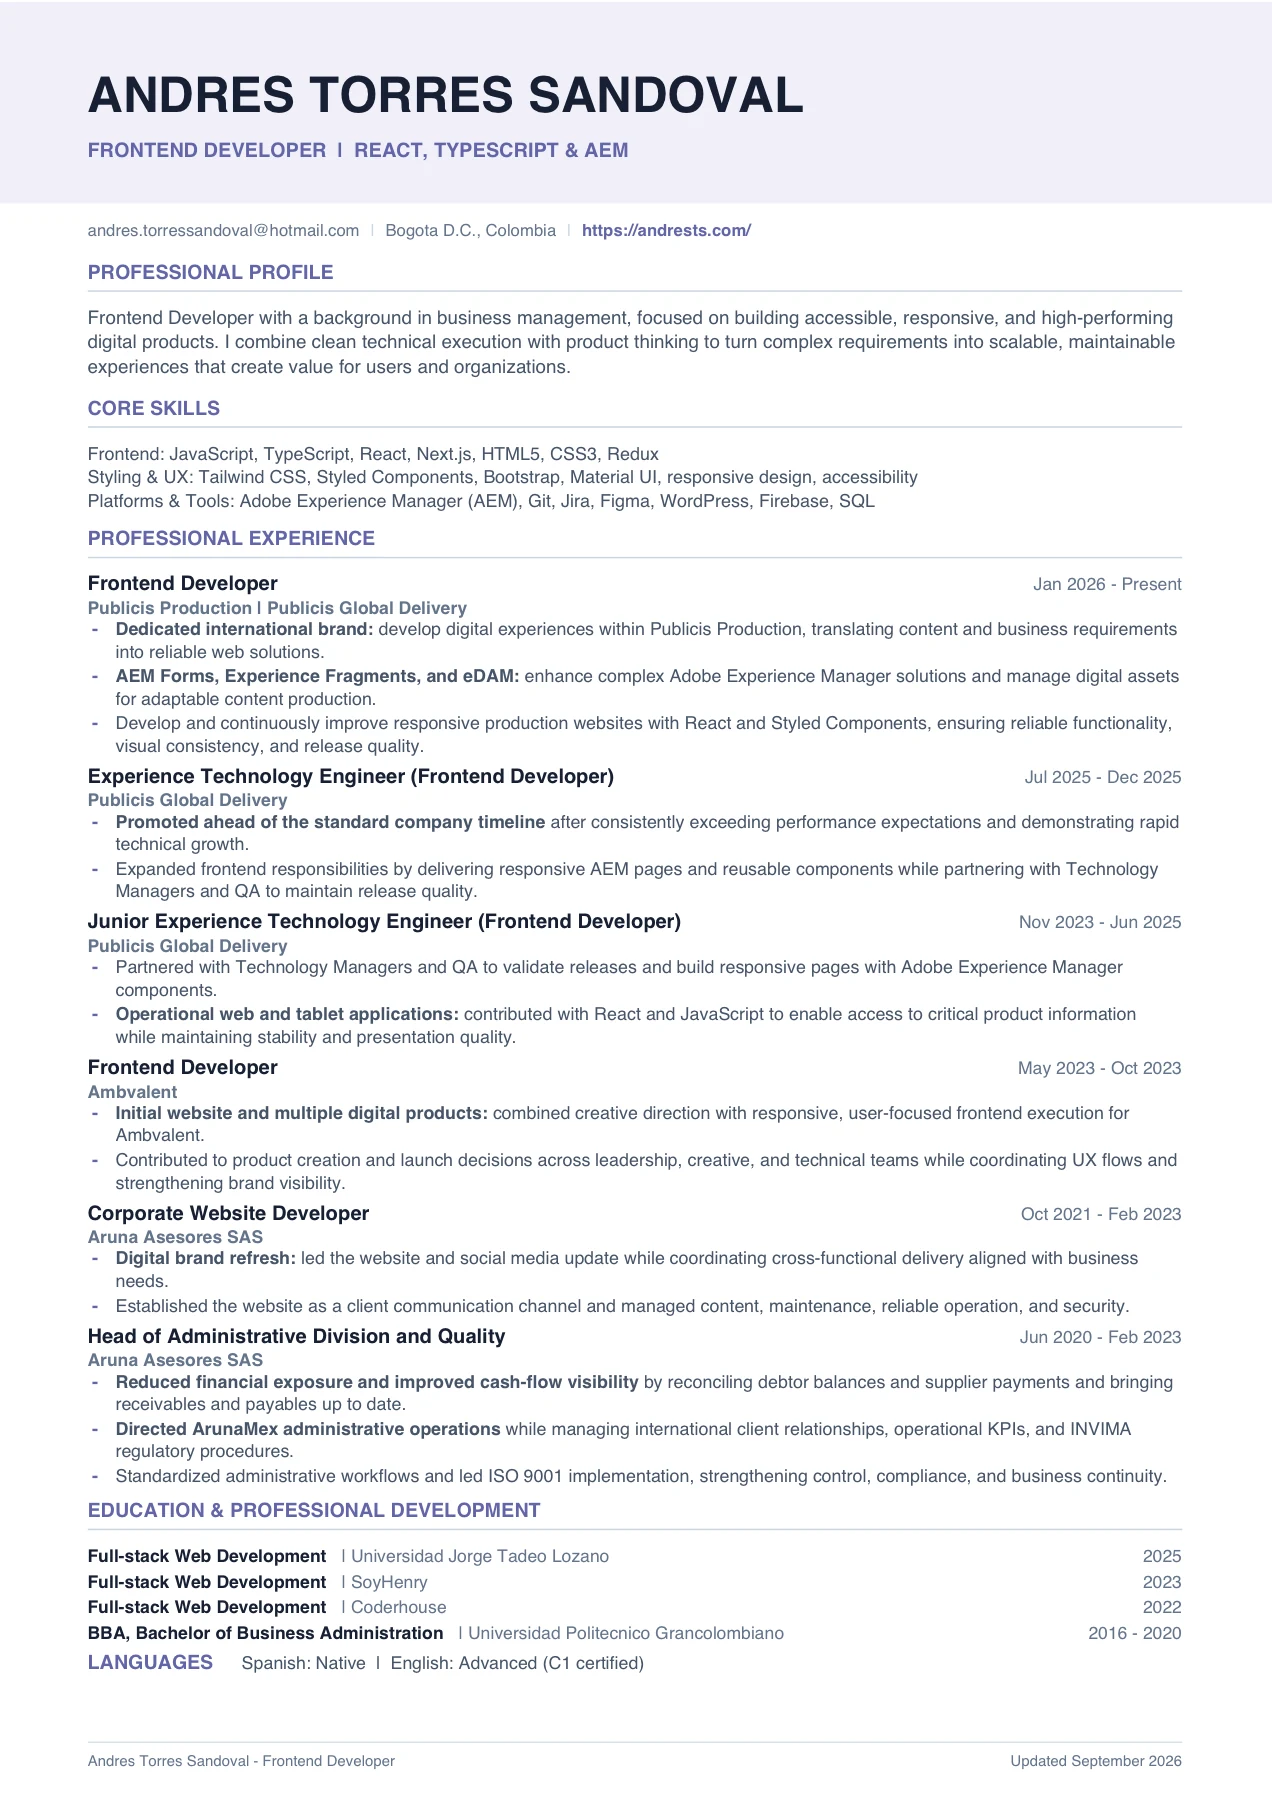
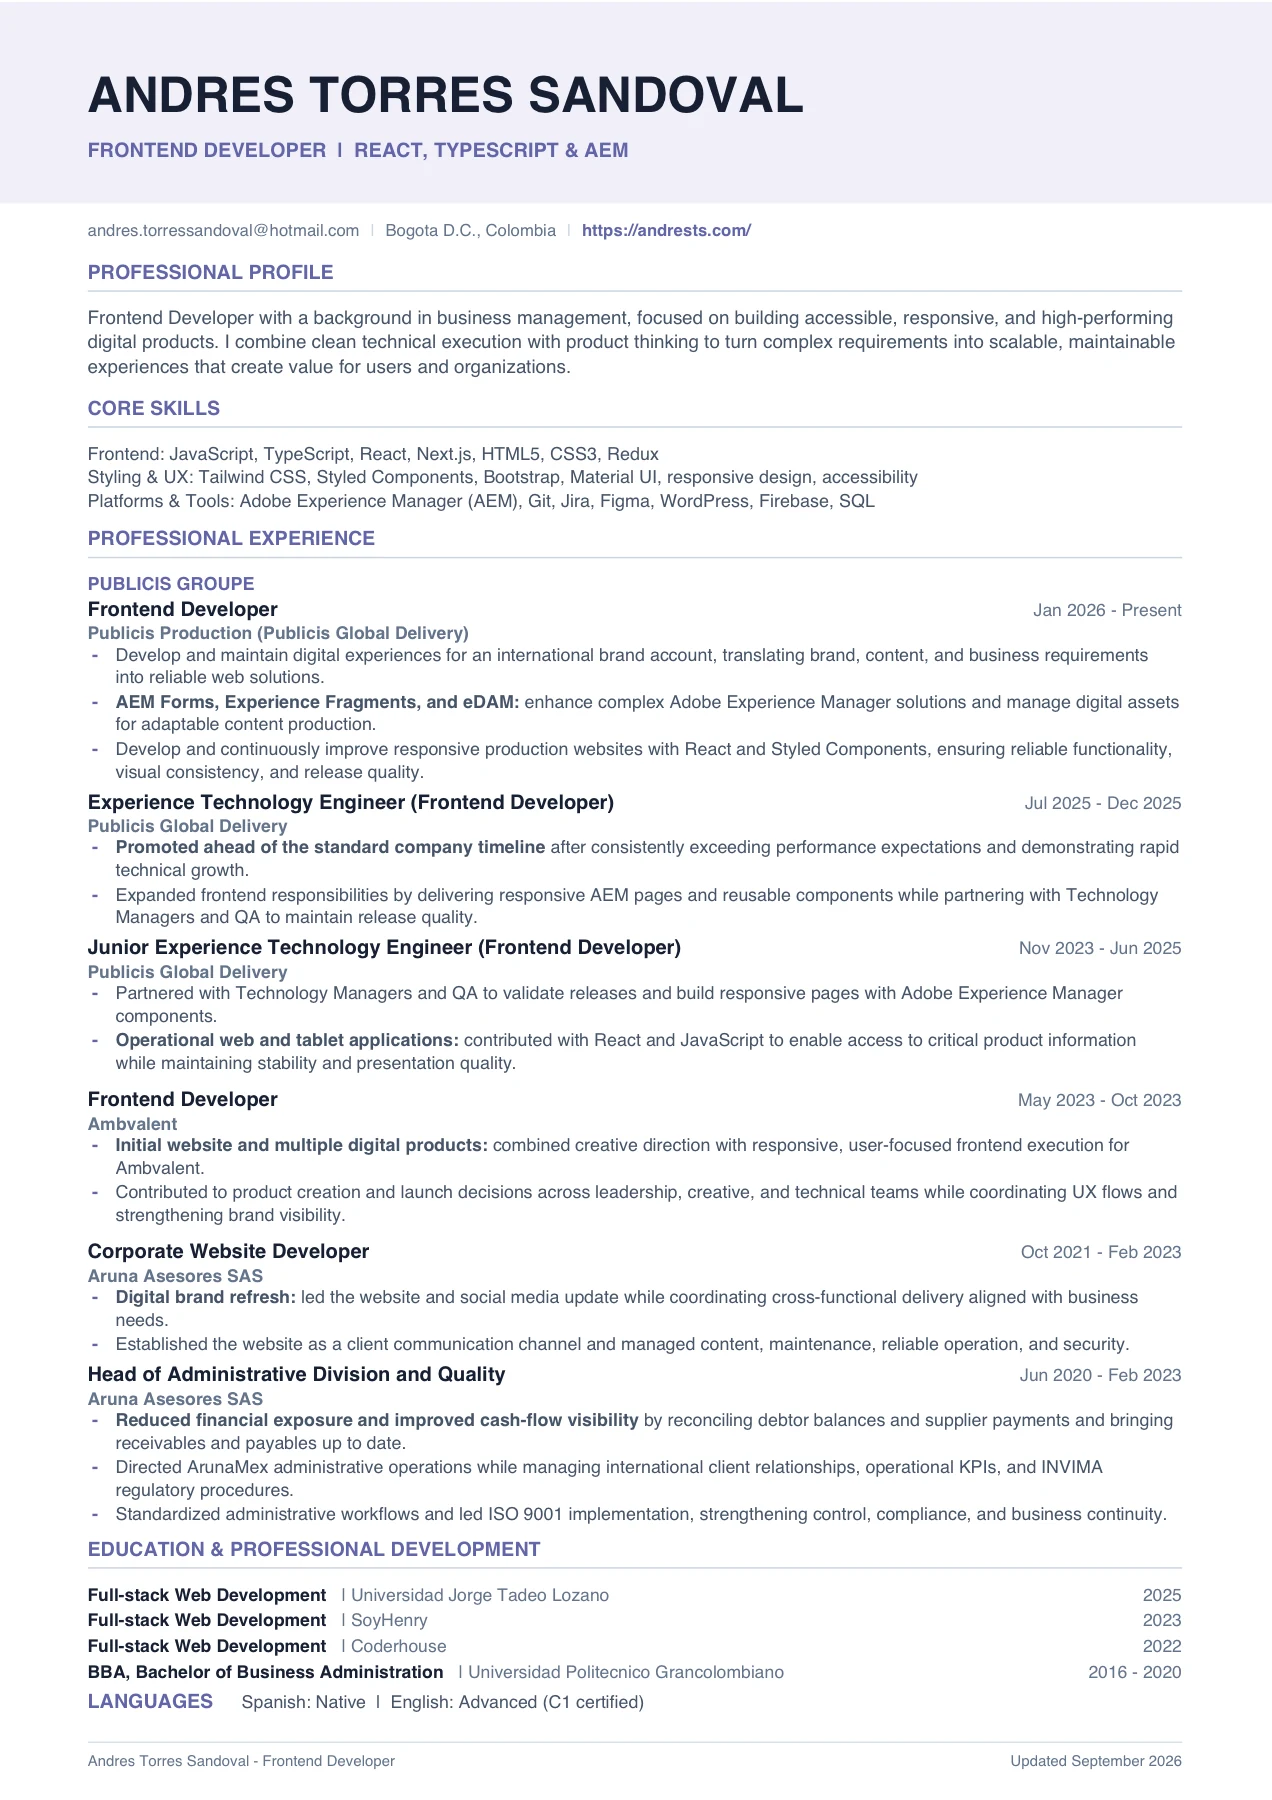
Refine Publicis resume hierarchy

Changed region(s): [[0.0613, 0.3111, 0.9505, 0.9644]]

diff --git a/src/data/experienceData.js b/src/data/experienceData.js
@@ -1,12 +1,12 @@
 export const experienceData = [
     {
         id: 1,
-        company: 'Publicis Production · Publicis Global Delivery',
+        company: 'Publicis Production (Publicis Global Delivery)',
         jobtitle: 'Frontend Developer',
         startYear: 'Jan 2026',
         endYear: 'Present',
         achievements: [
-            'Contribute to the frontend development of digital experiences for a single international brand within Publicis Production, translating its content and business requirements into reliable web solutions.',
+            'Develop and maintain digital experiences for an international brand account within Publicis Production, translating brand, content, and business requirements into reliable web solutions.',
             'Enhance complex Adobe Experience Manager solutions, including AEM Forms and Experience Fragments, to support efficient and adaptable content production.',
             'Use eDAM to organize and manage digital assets, helping teams deliver accurate and consistent content across web experiences.',
             'Develop and continuously improve responsive production websites with React and Styled Components, ensuring reliable functionality, visual consistency, and release quality.'
